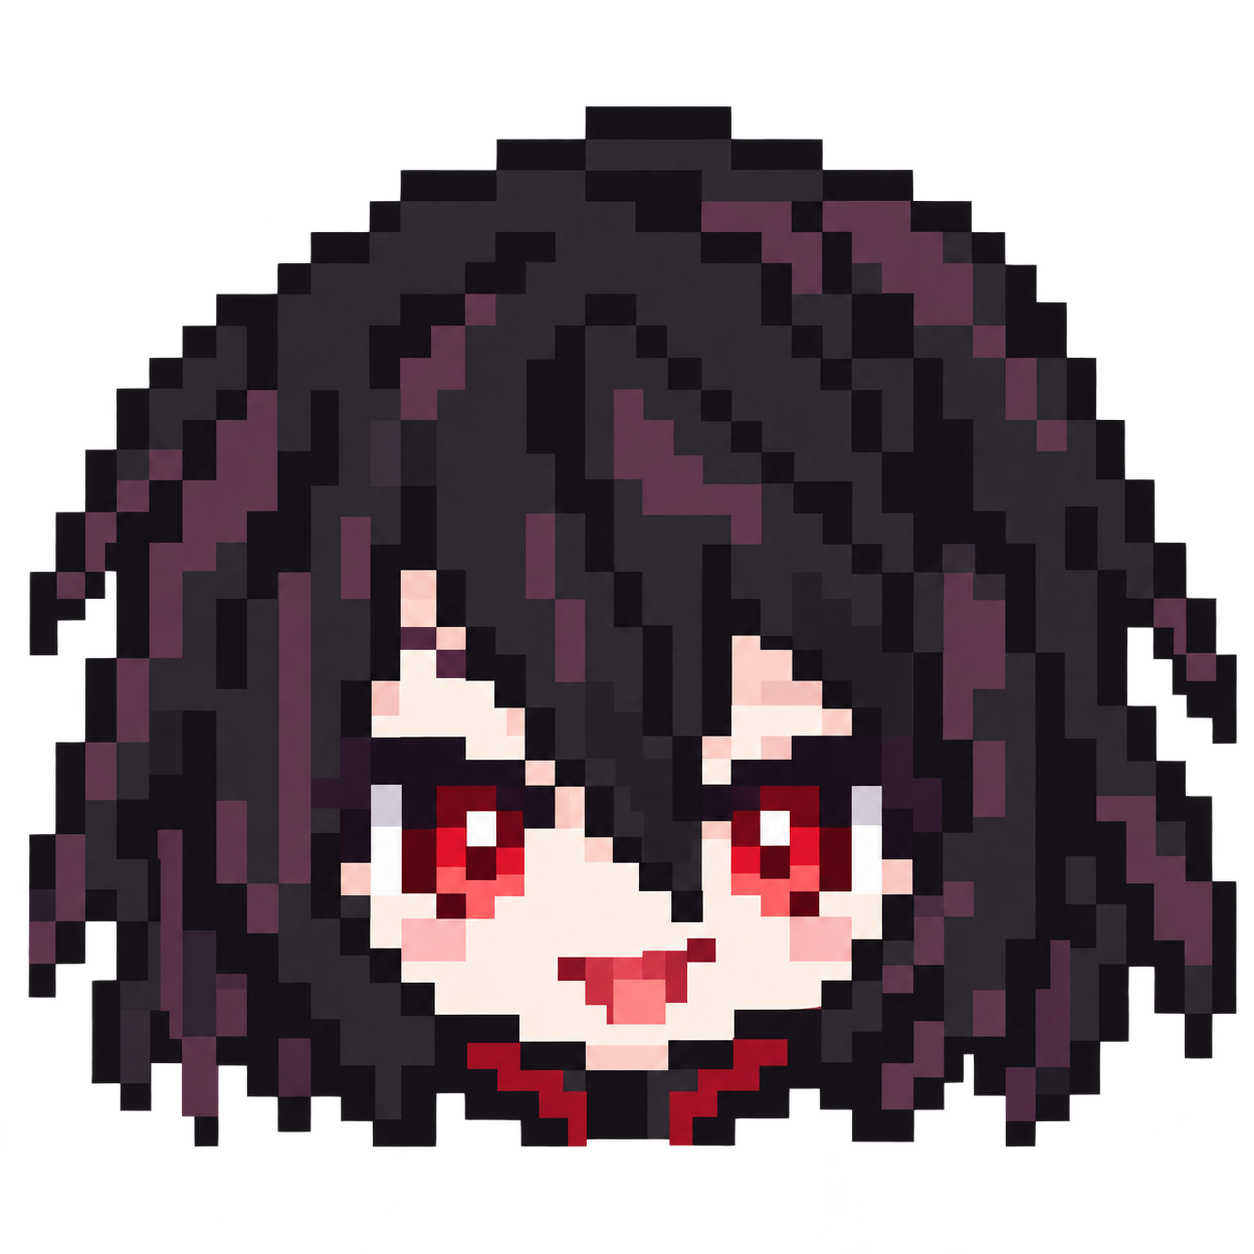
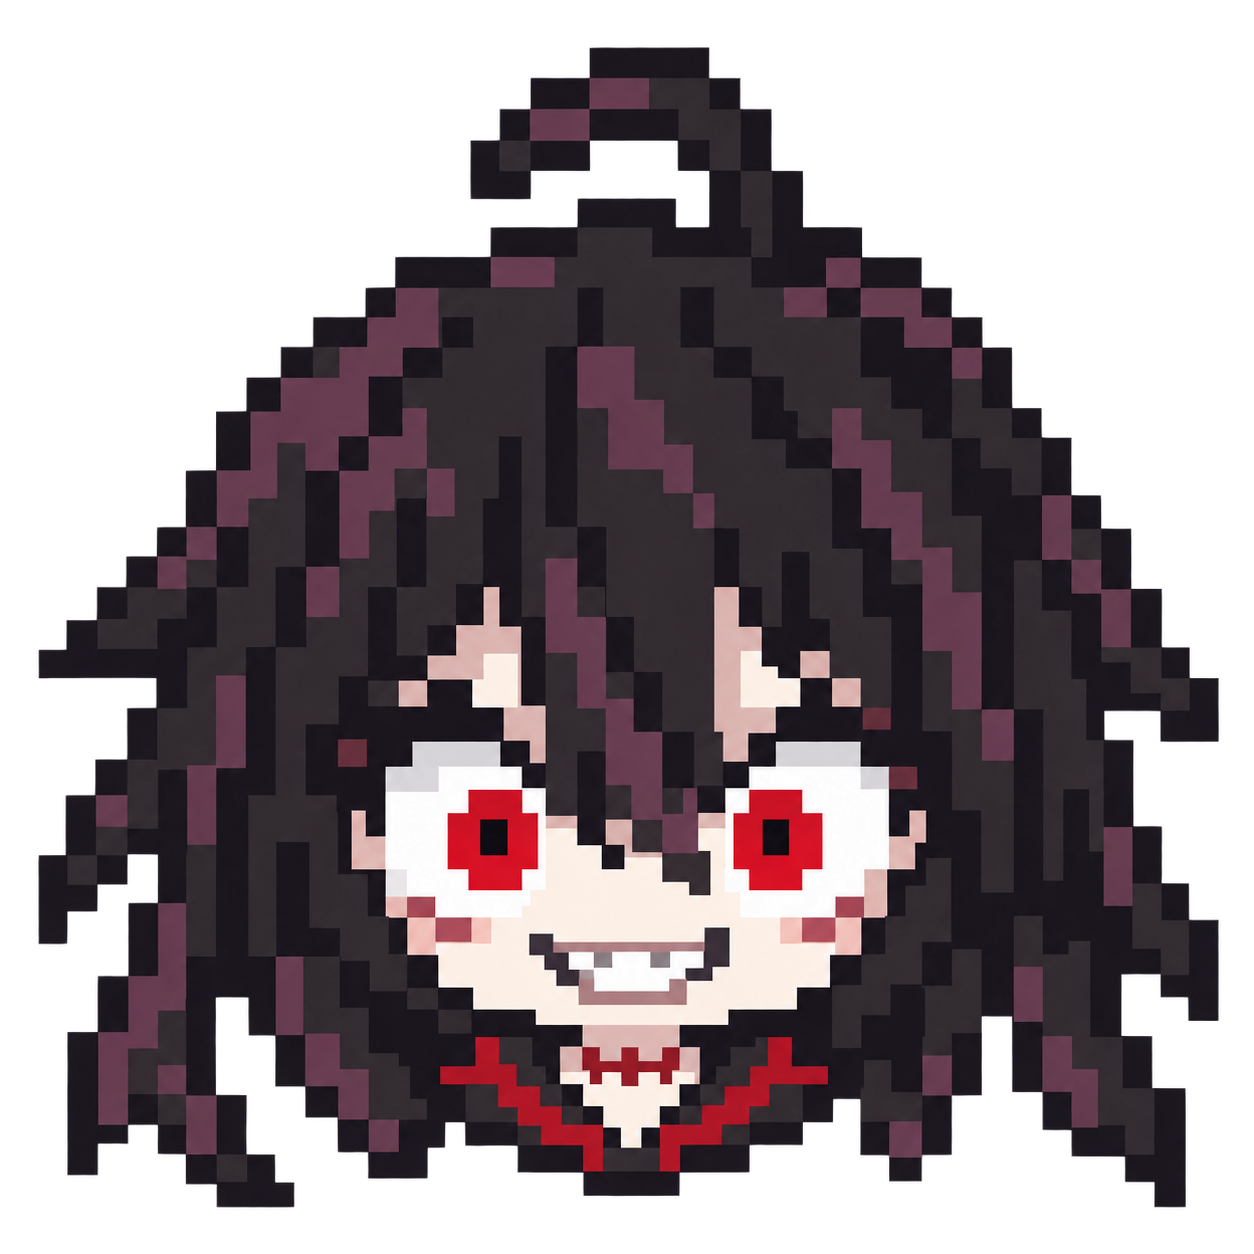
Apply six user-approved regenerated Blue Archive portraits

diff --git a/docs/architecture/ui-presentation.md b/docs/architecture/ui-presentation.md
@@ -92,7 +92,7 @@ The chat and input font row uses the native segmented control to select `OpenAI 
 
 The host observes `item/completed` notifications for both `subAgentActivity` with `kind: started` (v2 creation) and successful `collabAgentToolCall` with `tool: spawnAgent`. Both paths use the same per-thread saved decision, so duplicate notifications do not redraw a photo. Later activity and history reads do not allocate photos.
 
-The Photo preview section selects the persisted image set through a native segmented control, then shows one randomly selected photo and its display name, with a button to draw another. Blue Archive is the bundled default set, containing 200 distinct student/costume IDs: the original 100 base portraits and 100 additional portraits (44 base appearances and 56 costume variants). Existing numeric IDs and original image bytes are retained; displayed names distinguish costumes. Roster validation checks nonempty records, unique IDs, complete identity fields, safe filenames and PNG integrity. Selecting a set changes future subagent assignments and the preview; existing assignments, including saved off decisions, remain stable. Each side of the photo box is one third of the native `size-20` box, using the same spacing token; image alternative text also uses the English name. Preview is available while the switch is off and does not change saved preferences or subagent assignments. Loading, save failure and unavailable-photo states remain visible and accessible. Images use bundled assets or copied user assets through local webview resource URLs.
+The Photo preview section selects the persisted image set through a native segmented control, then shows one randomly selected photo and its display name, with a button to draw another. Blue Archive is the bundled default set, containing 200 distinct student/costume IDs: the original 100 base portraits and 100 additional portraits (44 base appearances and 56 costume variants). Existing numeric IDs are retained; image replacements use the exact generated PNGs confirmed by the user, with hashes and approval provenance updated together. Unselected image bytes are retained; displayed names distinguish costumes. Roster validation checks nonempty records, unique IDs, complete identity fields, safe filenames and PNG integrity. Selecting a set changes future subagent assignments and the preview; existing assignments, including saved off decisions, remain stable. Each side of the photo box is one third of the native `size-20` box, using the same spacing token; image alternative text also uses the English name. Preview is available while the switch is off and does not change saved preferences or subagent assignments. Loading, save failure and unavailable-photo states remain visible and accessible. Images use bundled assets or copied user assets through local webview resource URLs.
 
 **Add image set** opens a native multi-file chooser and a set-name prompt. PNG, JPEG, WebP and GIF imports allow up to 200 regular raster files, 1 MiB each and 20 MiB total. The host checks format signatures and stores copies beneath extension global storage `subagent-photos/<set-id>/`, so source files can be moved after import. File stems supply display names. Successful import persists metadata and selects the new set. Cancellation and validation/storage failures preserve the previous selection and assignments and clear the busy state. Native dialogs do not hold the mutation queue or expire on the short bridge-response timer. There is no archive extraction or runtime network request.
 
